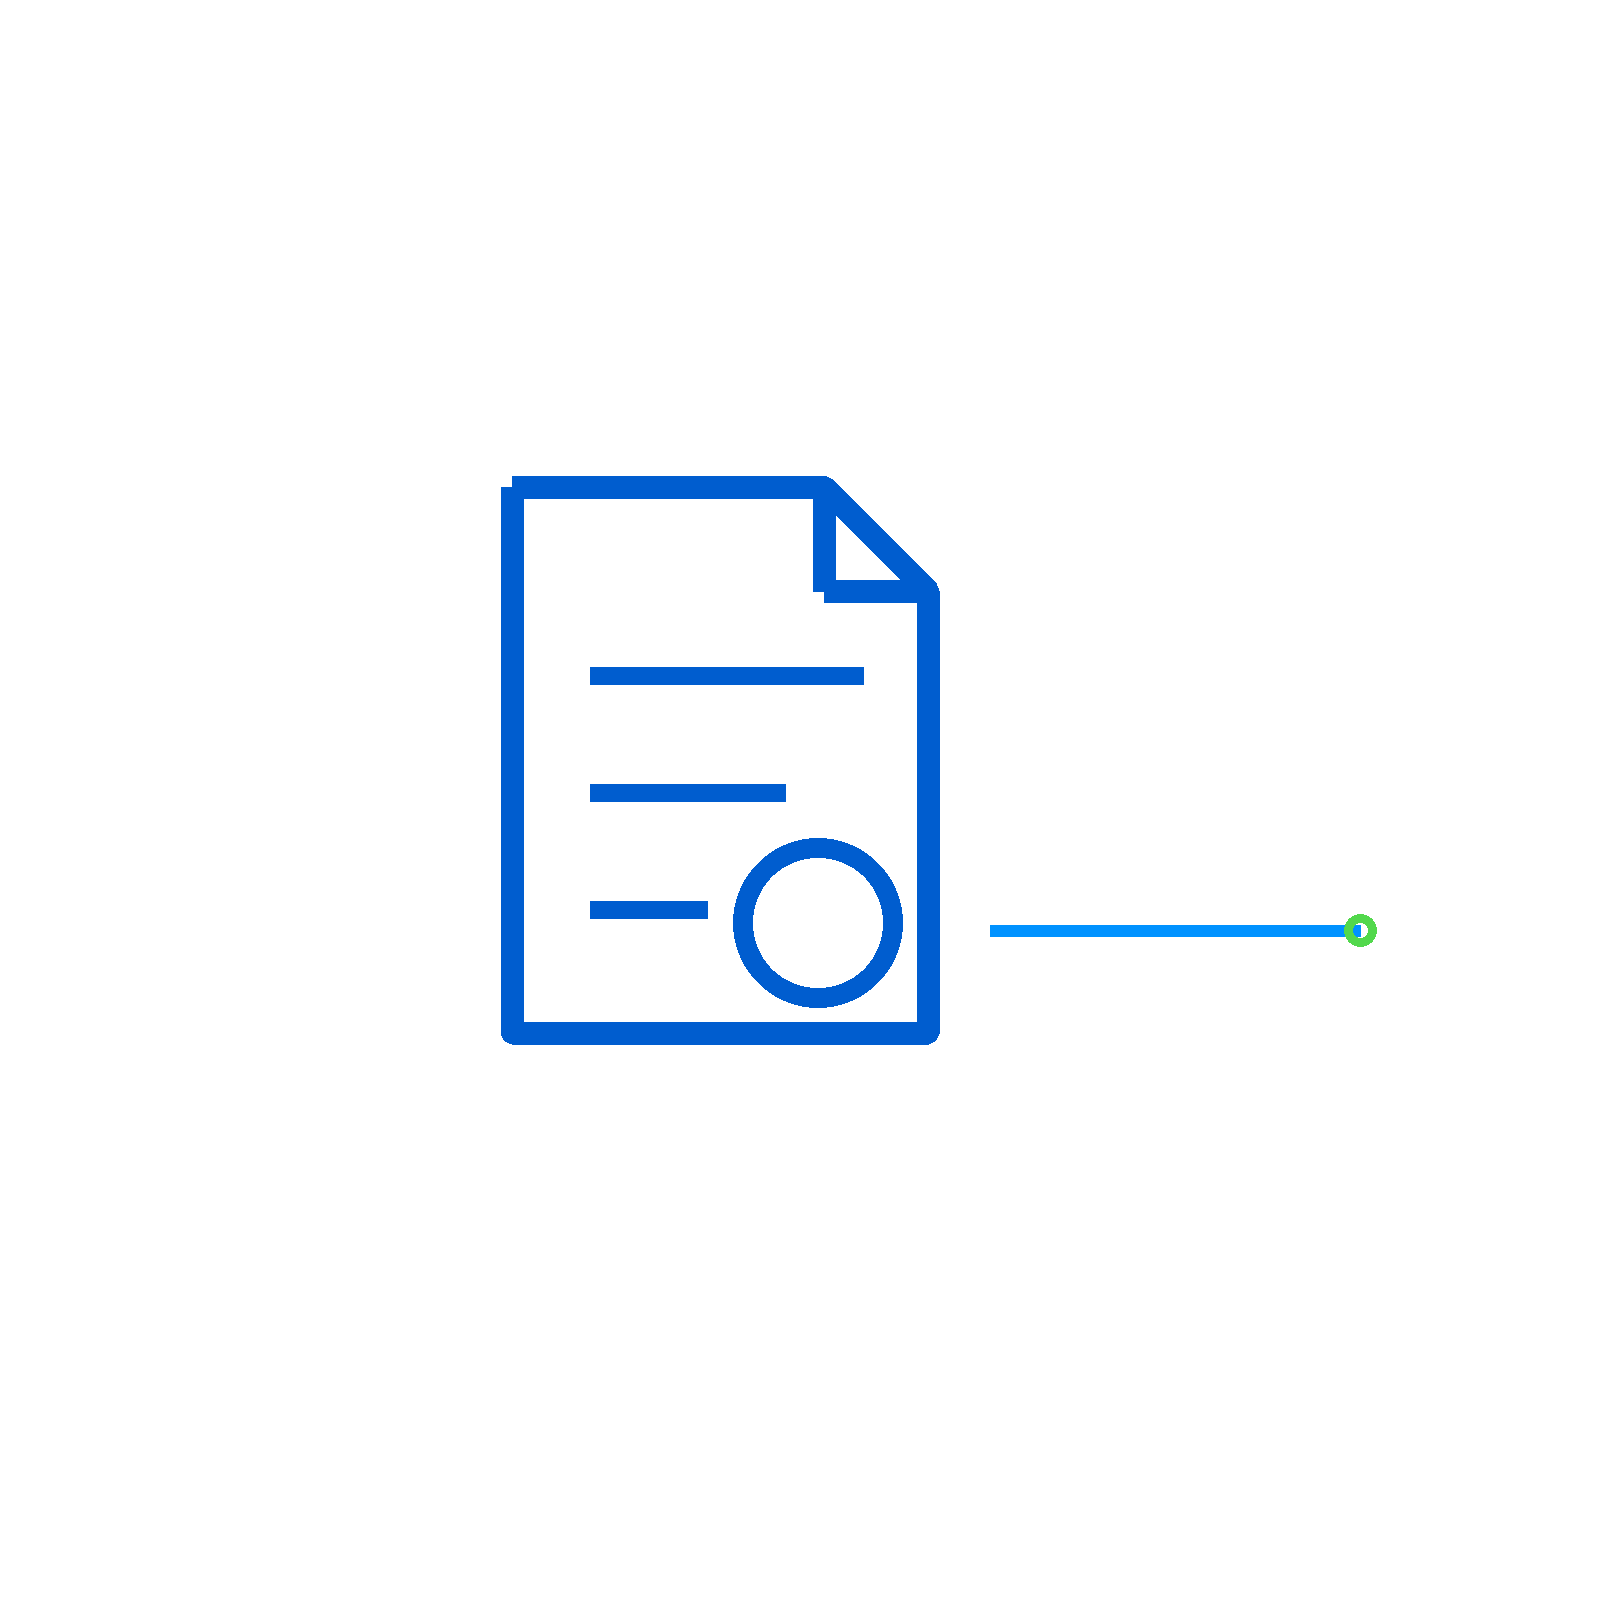
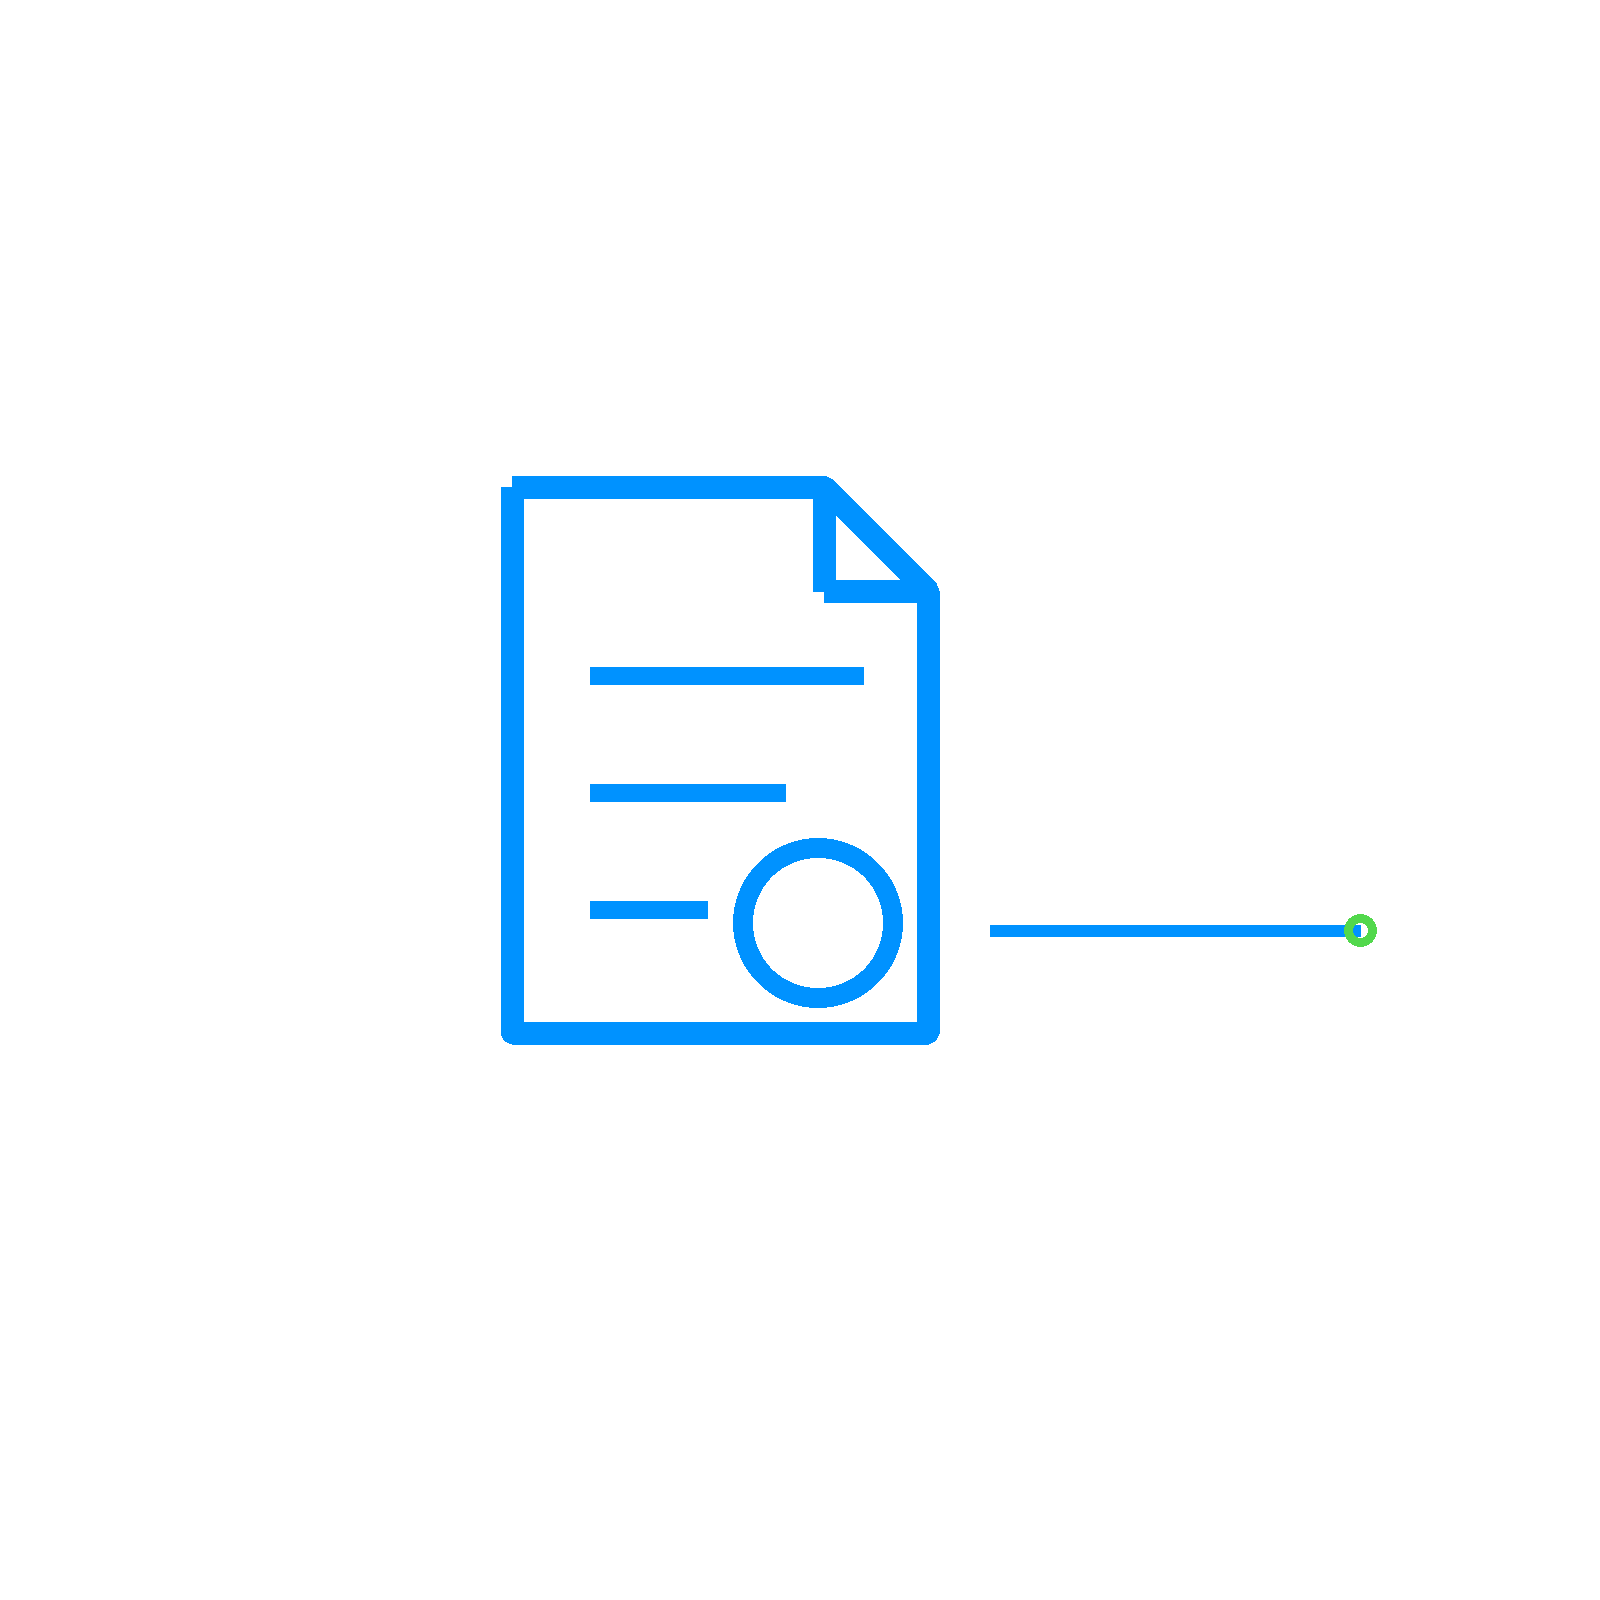
ajout image

Changed region(s): [[0.3125, 0.2812, 0.5938, 0.6562], [0.375, 0.4688, 0.5, 0.5], [0.375, 0.5625, 0.4688, 0.5938]]

diff --git a/src/assets/pages/services/Pole2/Pole2Deroulement.jsx b/src/assets/pages/services/Pole2/Pole2Deroulement.jsx
@@ -1,4 +1,8 @@
 import useReveal from "../../../components/useReveal";
+import automatiser from "../../../../../public/images/Automatiser.png";
+import centraliser from "../../../../../public/images/Centraliser.png";
+import developper from "../../../../../public/images/Developper.png";
+import connecter from "../../../../../public/images/Connecter.png";
 
 const Pole2Deroulement = () => {
   useReveal();
@@ -20,7 +24,10 @@ const Pole2Deroulement = () => {
         </div>
         <ul className="feature-list reveal reveal-2">
           <li>
-            <span className="feat-num">01</span>
+            <div className="left-feat">
+              <span className="feat-num">01</span>
+              <img src={centraliser} alt="image_centraliser" />
+            </div>
             <div>
               <strong>Centraliser les documents et les demandes</strong>
               <p>
@@ -32,7 +39,10 @@ const Pole2Deroulement = () => {
             </div>
           </li>
           <li>
-            <span className="feat-num">02</span>
+            <div className="left-feat">
+              <span className="feat-num">02</span>
+              <img src={connecter} alt="image_connecter" />
+            </div>
             <div>
               <strong>Faire circuler les données entre vos outils</strong>
               <p>
@@ -44,7 +54,10 @@ const Pole2Deroulement = () => {
             </div>
           </li>
           <li>
-            <span className="feat-num">03</span>
+            <div className="left-feat">
+              <span className="feat-num">03</span>
+              <img src={automatiser} alt="image_automatiser" />
+            </div>
             <div>
               <strong>Automatiser les tâches répétitives</strong>
               <p>
@@ -56,7 +69,10 @@ const Pole2Deroulement = () => {
             </div>
           </li>
           <li>
-            <span className="feat-num">04</span>
+            <div className="left-feat">
+              <span className="feat-num">04</span>
+              <img src={developper} alt="image_développer" />
+            </div>
             <div>
               <strong>Développer une application adaptée</strong>
               <p>

diff --git a/src/assets/styles/main.css b/src/assets/styles/main.css
@@ -4745,11 +4745,11 @@ h1 span {
 }
 .pole2-deroulement .feature-list li {
   display: grid;
-  grid-template-columns: 60px 1fr;
+  grid-template-columns: 200px 1fr;
   -webkit-box-align: start;
       -ms-flex-align: start;
           align-items: start;
-  gap: 24px;
+  gap: 4px;
   padding: 24px 0px;
   border-bottom: 1px solid var(--gray-line);
   list-style: none;
@@ -4759,16 +4759,46 @@ h1 span {
     grid-template-columns: 15px 1fr;
   }
 }
-.pole2-deroulement .feature-list li .feat-num {
+.pole2-deroulement .feature-list li .left-feat {
+  display: -webkit-box;
+  display: -ms-flexbox;
+  display: flex;
+  -webkit-box-align: center;
+      -ms-flex-align: center;
+          align-items: center;
+  -webkit-box-pack: center;
+      -ms-flex-pack: center;
+          justify-content: center;
+  gap: 20px;
+}
+.pole2-deroulement .feature-list li .left-feat .feat-num {
   font-style: italic;
-  color: var(--blue);
+  color: var(--white);
   font-size: 0.8rem;
-  font-weight: 400;
+  font-weight: 500;
+  border: 3px solid var(--blue);
+  border-radius: 50%;
+  width: 30px;
+  height: 30px;
+  background: var(--blue);
+  display: -webkit-box;
+  display: -ms-flexbox;
+  display: flex;
+  -webkit-box-align: center;
+      -ms-flex-align: center;
+          align-items: center;
+  -webkit-box-pack: center;
+      -ms-flex-pack: center;
+          justify-content: center;
+}
+.pole2-deroulement .feature-list li .left-feat img {
+  width: 50%;
 }
 .pole2-deroulement .feature-list li div {
   display: block;
   unicode-bidi: isolate;
   text-align: justify;
+  margin-left: 1rem;
 }
 .pole2-deroulement .feature-list li div strong {
   display: block;

diff --git a/src/assets/styles/components/_pole2.scss b/src/assets/styles/components/_pole2.scss
@@ -331,9 +331,9 @@
 
     li {
       display: grid;
-      grid-template-columns: 60px 1fr;
+      grid-template-columns: 200px 1fr;
       align-items: start;
-      gap: 24px;
+      gap: 4px;
       padding: 24px 0px;
       border-bottom: 1px solid var(--gray-line);
       list-style: none;
@@ -341,17 +341,34 @@
       @media (max-width: 600px) {
         grid-template-columns: 15px 1fr;
       }
-
-      .feat-num {
-        font-style: italic;
-        color: var(--blue);
-        font-size: 0.8rem;
-        font-weight: 400;
+      .left-feat {
+        display: flex;
+        align-items: center;
+        justify-content: center;
+        gap: 20px;
+        .feat-num {
+          font-style: italic;
+          color: var(--white);
+          font-size: 0.8rem;
+          font-weight: 500;
+          border: 3px solid var(--blue);
+          border-radius: 50%;
+          width: 30px;
+          height: 30px;
+          background: var(--blue);
+          display: flex;
+          align-items: center;
+          justify-content: center;
+        }
+        img {
+          width: 50%;
+        }
       }
       div {
         display: block;
         unicode-bidi: isolate;
         text-align: justify;
+        margin-left: 1rem;
 
         strong {
           display: block;
@@ -366,7 +383,6 @@
         }
         p {
           color: var(--gray-text);
-
           margin: 0;
 
           @media (max-width: 471px) {
